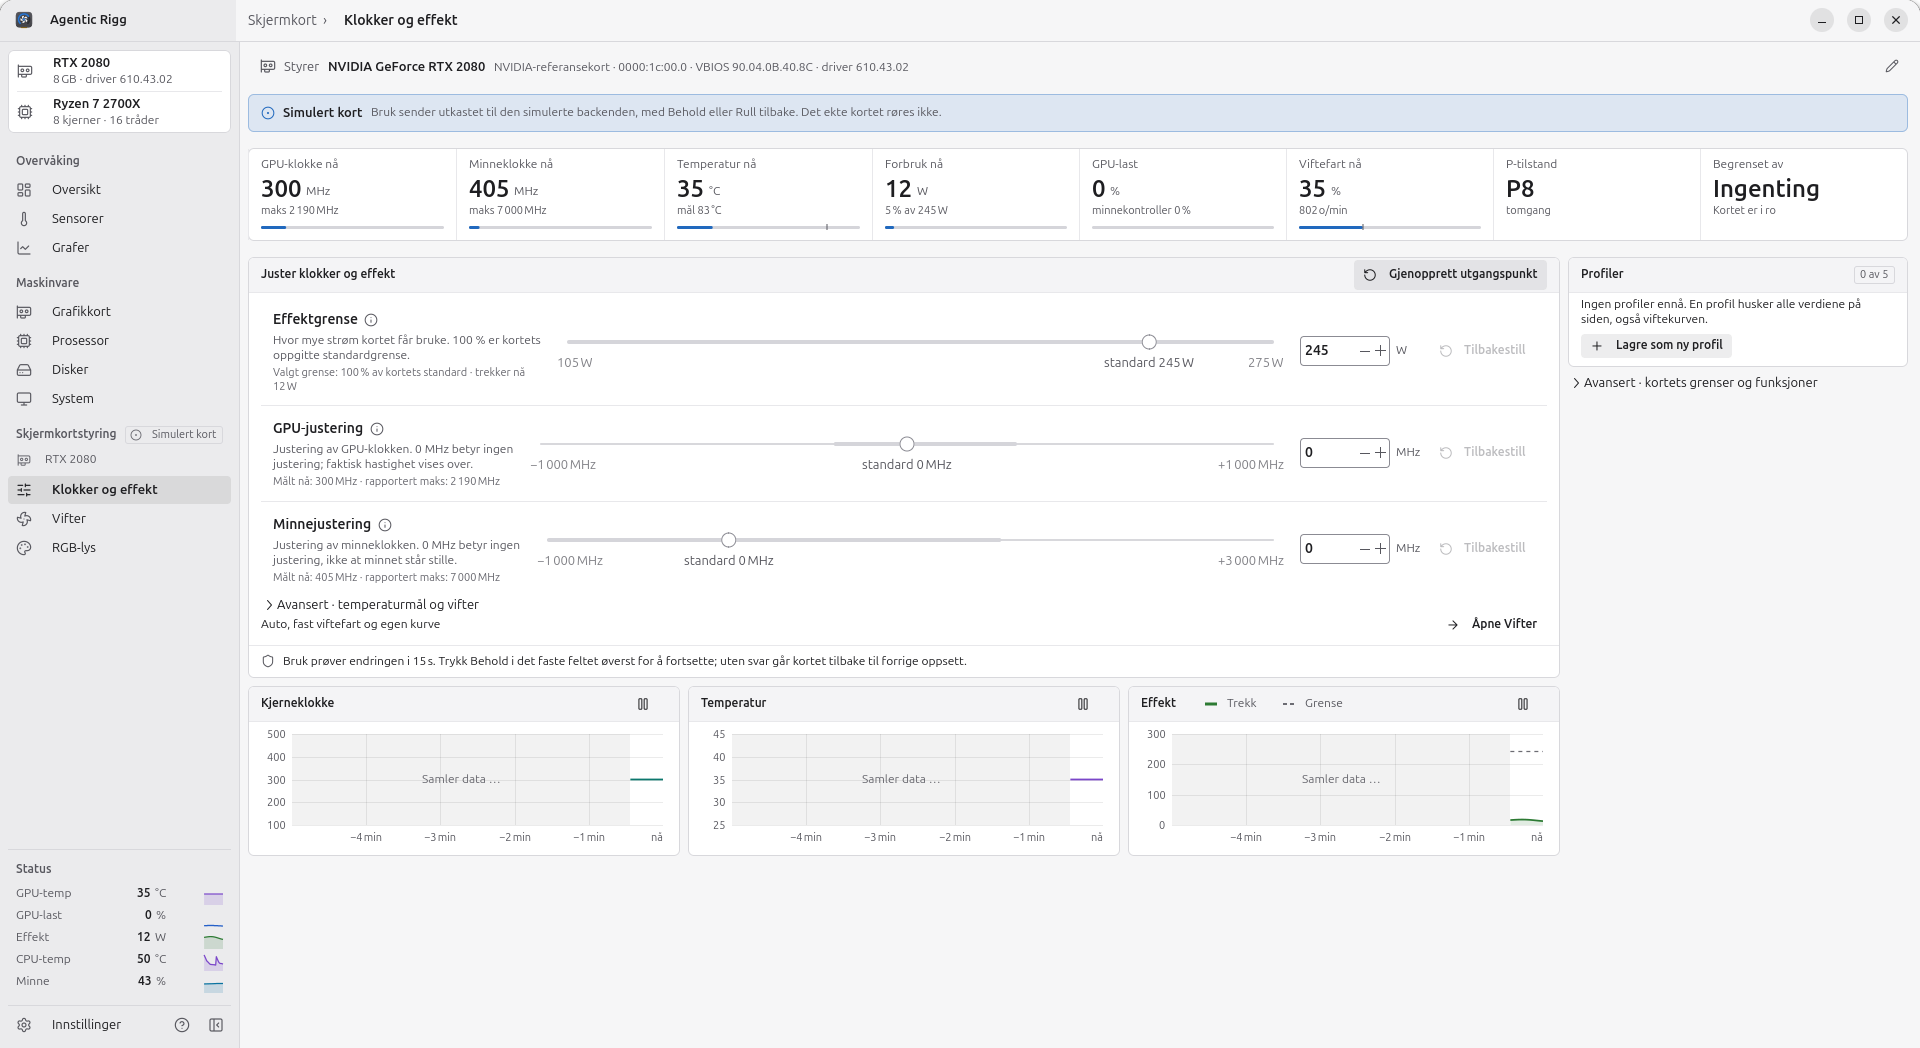
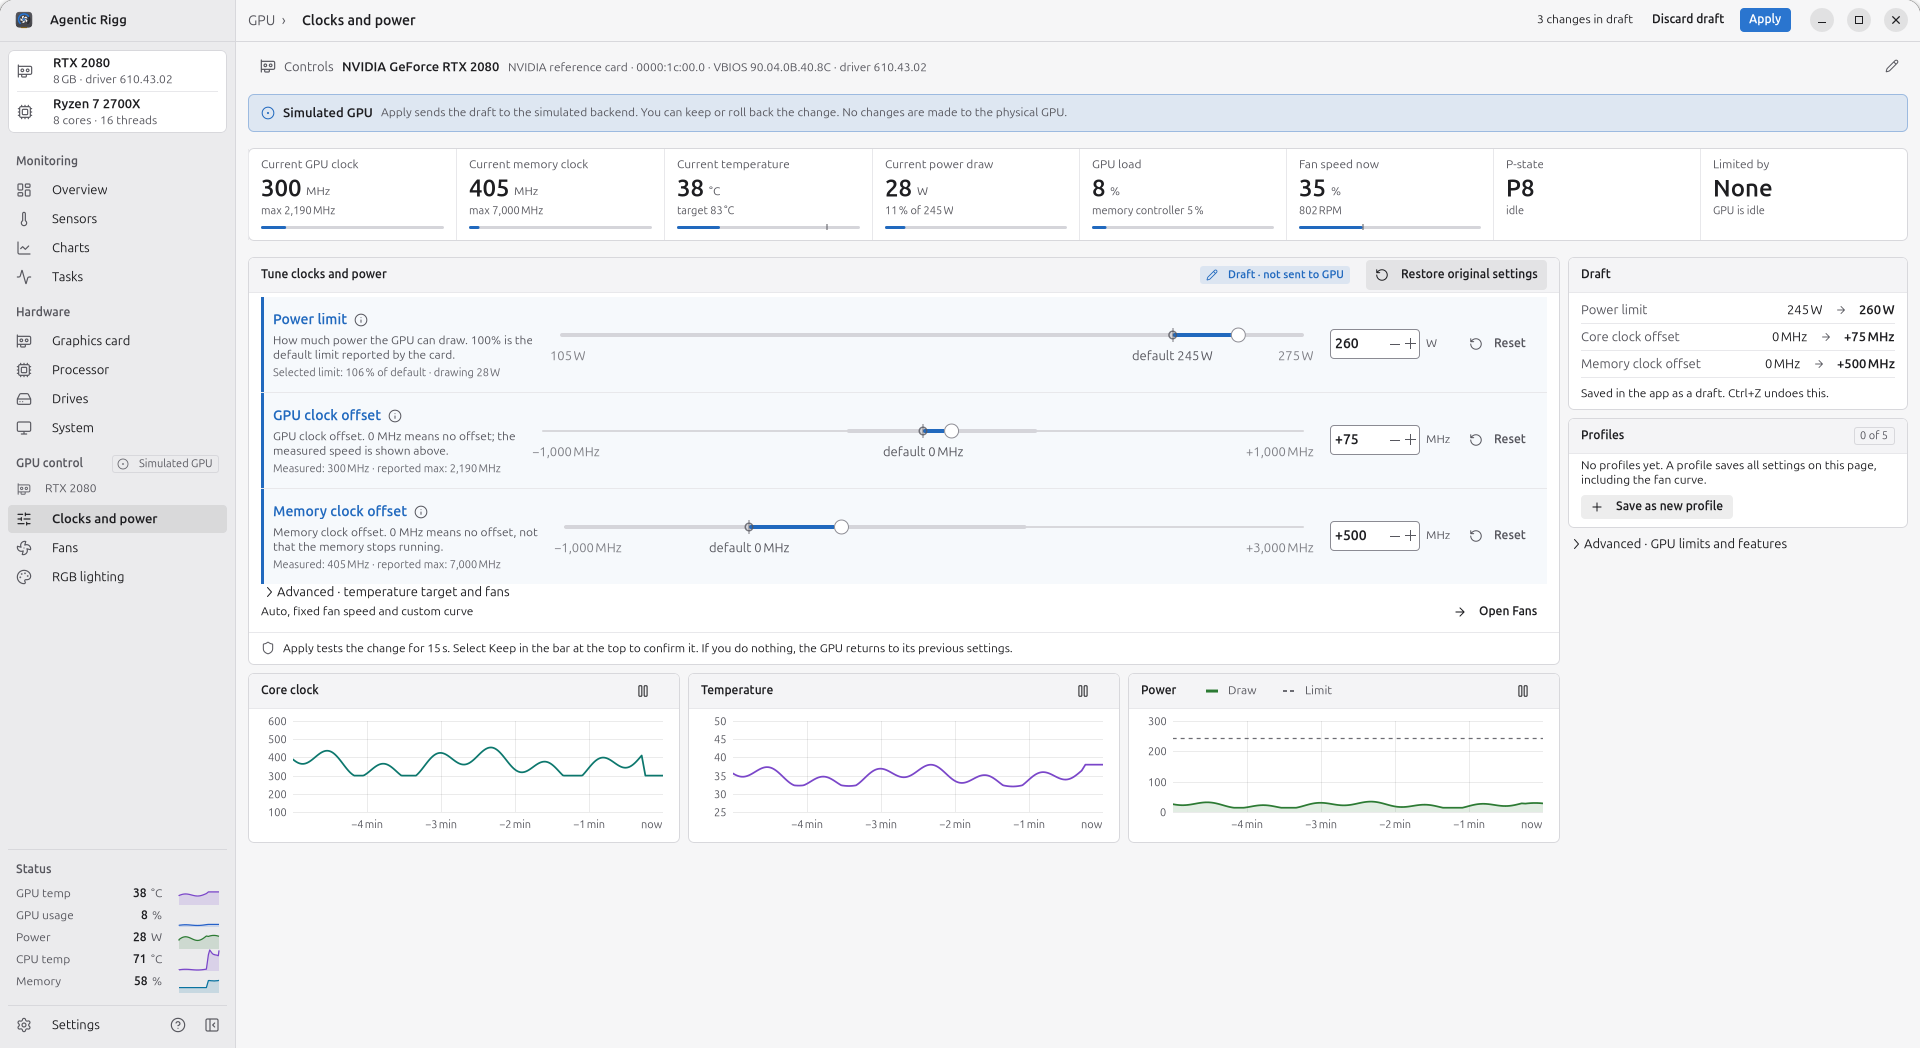
1.5.0: utgivelsesnotater, engelske README-bilder, kreditering og logg

diff --git a/app/crates/rigg/src/settings/om.rs b/app/crates/rigg/src/settings/om.rs
@@ -156,11 +156,12 @@ pub fn build(app: &Rc<App>) -> Vec<Group> {
     let credits = KvList::new();
     credits.grid.add_css_class("about-debug");
     credits.add(tr!("Prosjekteier"), tr!("Julian · produktidé, prioriteringer og utprøving"));
-    credits.add("Claude Code", "Anthropic Claude Opus 5.5");
-    credits.add("Codex", "OpenAI GPT 6.1 Sol");
-    let mut contributions = group(tr!("Bidrag"), GroupOpts { whole: true, k: &kw("julian claude code anthropic opus 5.5 openai gpt 6.1 sol codex ai bidragsytere", tr!("søkeord", "julian claude code anthropic opus 5.5 openai gpt 6.1 sol codex ai bidragsytere")), ..Default::default() }, vec![]);
+    credits.add("Claude Code", "Anthropic Claude Opus 5.5 · Claude Fable 5.2");
+    credits.add("Codex", "OpenAI GPT 6.1 Sol · GPT 6 Astra · GPT 6.2 Sol · GPT 6.2 Astra");
+    credits.add("Gemini", "Google Gemini 4 Neon");
+    let mut contributions = group(tr!("Bidrag"), GroupOpts { whole: true, k: &kw("julian claude code anthropic opus 5.5 fable 5.2 openai gpt 6.1 6.2 sol astra codex google gemini neon ai bidragsytere", tr!("søkeord", "julian claude code anthropic opus 5.5 openai gpt 6.1 sol codex ai bidragsytere")), ..Default::default() }, vec![]);
     contributions.widget.append(&credits.grid);
-    contributions.rows.push(custom_row(&gtk::Box::new(gtk::Orientation::Horizontal, 0), "Julian Anthropic Claude Opus 5.5 Claude Code OpenAI GPT 6.1 Sol Codex"));
+    contributions.rows.push(custom_row(&gtk::Box::new(gtk::Orientation::Horizontal, 0), "Julian Anthropic Claude Opus 5.5 Fable 5.2 Claude Code OpenAI GPT 6.1 6.2 Sol Astra Codex Google Gemini 4 Neon"));
 
     // ---- Feilsøking ----
     let kv = KvList::new();

diff --git a/.github/release-notes/v1.5.0.md b/.github/release-notes/v1.5.0.md
@@ -1,0 +1,62 @@
+# Agentic Rigg 1.5.0 · build 25
+
+The first open-source release (MIT). This release adds ten interface languages, the Tasks page and card lighting for the Palit RTX 2080 Super JetStream. The local RGB preview has been removed, and the root helpers have a new, verified system installation.
+
+## New
+
+- **10 languages.** The whole interface, notifications, the tray menu and reports are available in Norwegian Bokmål, English, German, French, Spanish, Portuguese (Brazil), Italian, Polish, Simplified Chinese and Japanese.
+  - By default the app follows your system language. You can change it under *Settings › General › Language*; the window restarts to apply it.
+  - Numbers, dates and times follow the language.
+  - The translations were made and cross-checked by AI models. Corrections from native speakers are welcome.
+- **Tasks.** A new page lists Linux processes with CPU, memory (RSS) and GPU memory, with search, sorting and a process tree.
+  - You can end one selected process after confirming. The app sends SIGTERM via pidfd; system and session processes and the app itself are protected.
+  - Pausing keeps the same snapshot while you search, sort and page.
+  - `Ctrl+Shift+Esc` opens the page.
+- **Card lighting** for the Palit GeForce RTX 2080 Super JetStream: static colour, off, brightness, breathing, rainbow and colour cycle.
+  - Changes use the same *Apply* and *Keep* flow as GPU control, with automatic rollback.
+  - The helper restores a starting point that you confirmed by looking at the card.
+  - Recovery and uninstall work after interruptions and restarts.
+- **CPU hotplug.** Sensors, Processor and the sidebar follow changed CPU IDs, also when the thread count stays the same.
+
+## Removed: everything that was only a demo
+
+- The local 2D/3D light model is gone, along with its saved light settings, the "3D card" setting and the easter egg tied to it. The RGB page now shows only what your card can actually do, or a clear message if it has no supported controller.
+- The localhost web demo is no longer part of the repository.
+
+## Security: new system installation for GPU control and RGB
+
+- **Verified installation.** The root helpers are installed with one administrator command, which the app shows with a copy button. The command copies the release archive into a root-owned directory and checks it against the SHA-256 you paste from this page before running anything. Nothing in your home directory runs as root.
+- **Fixed polkit entry points.** Each enable or disable asks for the administrator password; the approval is not remembered. Admin-side I2C steps run in the same systemd sandbox as the RGB worker, limited to the one identified device. Helpers reject requests with duplicate fields.
+- **GPU control must be enabled again once.** The NVML protocol is still version 2, but the oldest accepted helper build is now 25. After updating, install the system components, then turn GPU control on again in *Settings › GPU control*. RGB has its own protocol, version 2.
+- Removal: `sudo /usr/local/libexec/agentic-rigg-system/system-install --uninstall` (after turning both helpers off), then `./uninstall.sh`.
+
+## Platform and installation
+
+The target platform is **Ubuntu 26.04 · amd64 · GTK ≥ 4.22 · glibc ≥ 2.39**. System libraries are not bundled. Download the archive and `SHA256SUMS` into the same folder, then run:
+
+```sh
+sha256sum --check SHA256SUMS
+tar -xzf agentic-rigg-1.5.0-build25-ubuntu26.04-amd64.tar.gz
+cd agentic-rigg-1.5.0
+./install.sh --bin-dir "$PWD/bin"
+~/.local/bin/agentic-rigg
+```
+
+Run this as your normal user. Your settings and history are kept. The user install does not activate any helper.
+
+## Verification and limits
+
+- **Automated checks:** Clippy is clean, and the workspace tests pass. The translation catalogs are complete in all ten languages, and an audit for untranslated text passes.
+- **Simulated GTK flows:** these were checked in private sessions with a simulated card and a fake RGB worker:
+  - GPU control (draft, Apply, Keep, Roll back)
+  - the RGB flow with all three effects
+  - the language switch
+- **Real hardware:**
+  - GPU control was verified on an RTX 2080 in 1.4.0.
+  - On the Palit RTX 2080 Super JetStream, a static blue and the automatic return to the original green were confirmed by eye.
+  - The animated effects, the new system installation and the systemd sandbox for admin steps have not yet run on real hardware.
+- **Not implemented:**
+  - AMD and Intel GPU backends.
+  - RGB on any controller other than the Palit 100.
+
+Developed by Julian / bejulian1, with AI assistance from Anthropic Claude (Opus 5.5 and Fable 5.2, Claude Code), OpenAI GPT (6.2 Sol and 6.2 Astra, Codex) and Google Gemini 4 Neon. See [CONTRIBUTORS.md](https://github.com/bejulian1/agentic-rigg/blob/main/CONTRIBUTORS.md).

diff --git a/docs/produksjon/LOGG.md b/docs/produksjon/LOGG.md
@@ -859,3 +859,13 @@ Den 20. november 2026 identifiserte den lesende proben én PALIT 100-sone på NV
 Brukeren ba om å gjøre repoet offentlig som åpen kildekode. Forfatteradressen i første commit var en privat e-postadresse. Etter brukerens valg ble den byttet til GitHubs noreply-adresse med `git filter-branch` på alle brancher og tagger. Trærne er identiske før og etter, og v1.3.3, v1.4.0 og v1.4.1 er flyttet til de nye commitene og force-pushet. Full sikkerhetskopi av historikken ligger lokalt i `~/.cache/agentic-rigg-backup/`. Gamle commit-ID-er i eldre issue-lenker og utgivelsesnotater viser til de opprinnelige commitene.
 
 Localhost-demoen (`web/`, `server/`, `daemon-mock/`, `prototyper/`, `scripts/`, `package.json`) er tatt ut av git-sporingen og lagt i `.gitignore`. Mappene står urørt på disken. REGLER.md og AGENTS.md er oppdatert med språk for offentlige dokumenter, åpen kildekode og at appen ikke skal ha demofunksjoner.
+
+## 20.–21. november 2026 – Claude Code (dirigent): 1.5.0 · bygg 25
+
+Brukeren ba om åpen kildekode, offentlig repo, engelsk README, retningslinjer for bidrag, retting av alle åpne saker og PR-er med Gemini 4 Neon og GPT 6.2 Sol som underagenter, språkstøtte for ti språk og en ferdig app uten demo.
+
+- Åpen kildekode: PR #8 med engelsk README, CONTRIBUTING, CODE_OF_CONDUCT, SECURITY og maler. Repoet er offentlig, privat sårbarhetsrapportering er slått på, og localhost-demoen er tatt ut av sporingen.
+- Saker og PR-er: #3 (Gemini, gjennomgått av GPT, PR #9), #7 og PR #1 (GPT, gjennomgått av Gemini), og #4–#6 på PR #2 (GPT). Gemini gjennomgikk robustheten. Fable 5.2 gjorde to sikkerhetsgjennomganger, og GPT 6.2 Astra rettet funnene: felles `system-install` med SHA-256-kontroll fra root-eid kopi, faste polkit-innganger uten lagret godkjenning, sandkasse for administrativ I2C, avvisning av dupliserte felt og minimumsbygg 25.
+- Språk: grunnmur i `rigg_core::i18n` og fire parallelle oversettelsesgrener, kryssjekket mellom Gemini og GPT. Gemini nådde kvotegrensen tre ganger. Arbeidet ble lagret som WIP og fullført av GPT, og Fable 5.2 tok de siste gjennomgangene. Oppslaget faller nå tilbake til foreldremodulen, så tekst i nestede moduler som `mod imp` blir oversatt.
+- Demo fjernet: 2D/3D-lysmodellen, «3D-kortet», lokal lysvalglagring og «nordlys».
+- README-bildene er tatt på nytt på engelsk med simulerte data (planene 2c og rgb-flow). Planene 1.4.0-ui og 2c finner knapper etter norsk tekst og må kjøres på bokmål for å klikke seg gjennom flyten.

diff --git a/app/README.md b/app/README.md
@@ -18,6 +18,13 @@ Prosessor viser også lanseringsdato når den konkrete modellen er i det lokale 
 
 Måleaksene utvides også for 110 °C og klokker over kortets oppgitte maksimum. Ferske topper i langtidsvinduer og viftekurvens målte punkter tas med; lovlige redigeringsgrenser og 0–100 % for last og brukt minne beholdes.
 
+## Nytt i 1.5.0
+
+- Ti språk i hele brukerflaten (Innstillinger › Generelt › Språk, standard «Følg systemet»): norsk bokmål, engelsk, tysk, fransk, spansk, portugisisk (Brasil), italiensk, polsk, forenklet kinesisk og japansk.
+- Oppgaver under Overvåking, og Lys på kortet for Palit GeForce RTX 2080 Super JetStream med fast farge, av, lysstyrke, pusting, regnbue og fargesyklus.
+- Den lokale lysmodellen og alt annet som bare var demo er fjernet.
+- GPU- og RGB-hjelperen installeres med én kontrollert systeminstallasjon og bruker faste root-eide polkit-innganger. Laveste kompatible hjelperbygg er 25, så GPU-styring må aktiveres på nytt én gang. Se [RGB-hjelperen](../docs/produksjon/rgb-hjelper.md) og [hjelpersikkerhet](../docs/produksjon/hjelper-sikkerhet.md).
+
 ## Nytt i 1.4.1
 
 - **CPU på den faktiske maskinen:** Linux-CPU-ID-er beholdes ved hull i nummerrekken og hotplug. Prosessor, Sensorer og rapport bruker de aktive ID-ene; flere sokler og ulike cachegrupper behandles separat. Cachevarianter og antall bygger på sysfs-identitet og deling, og ukjent antall vises som ukjent. Temperatur bruker sensorens navn; L3-grupper kalles ikke automatisk CCX.
